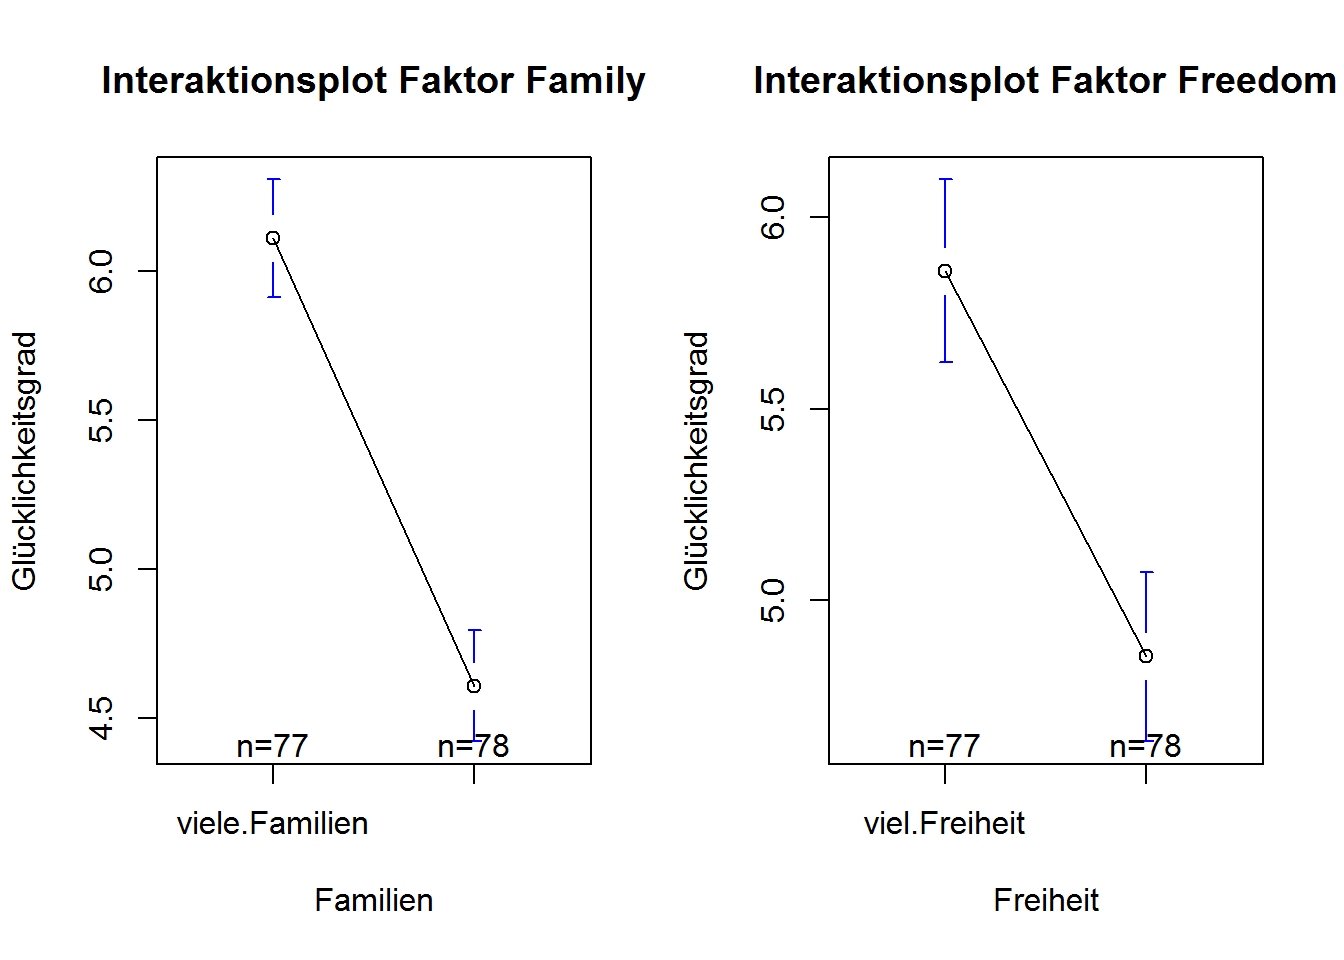
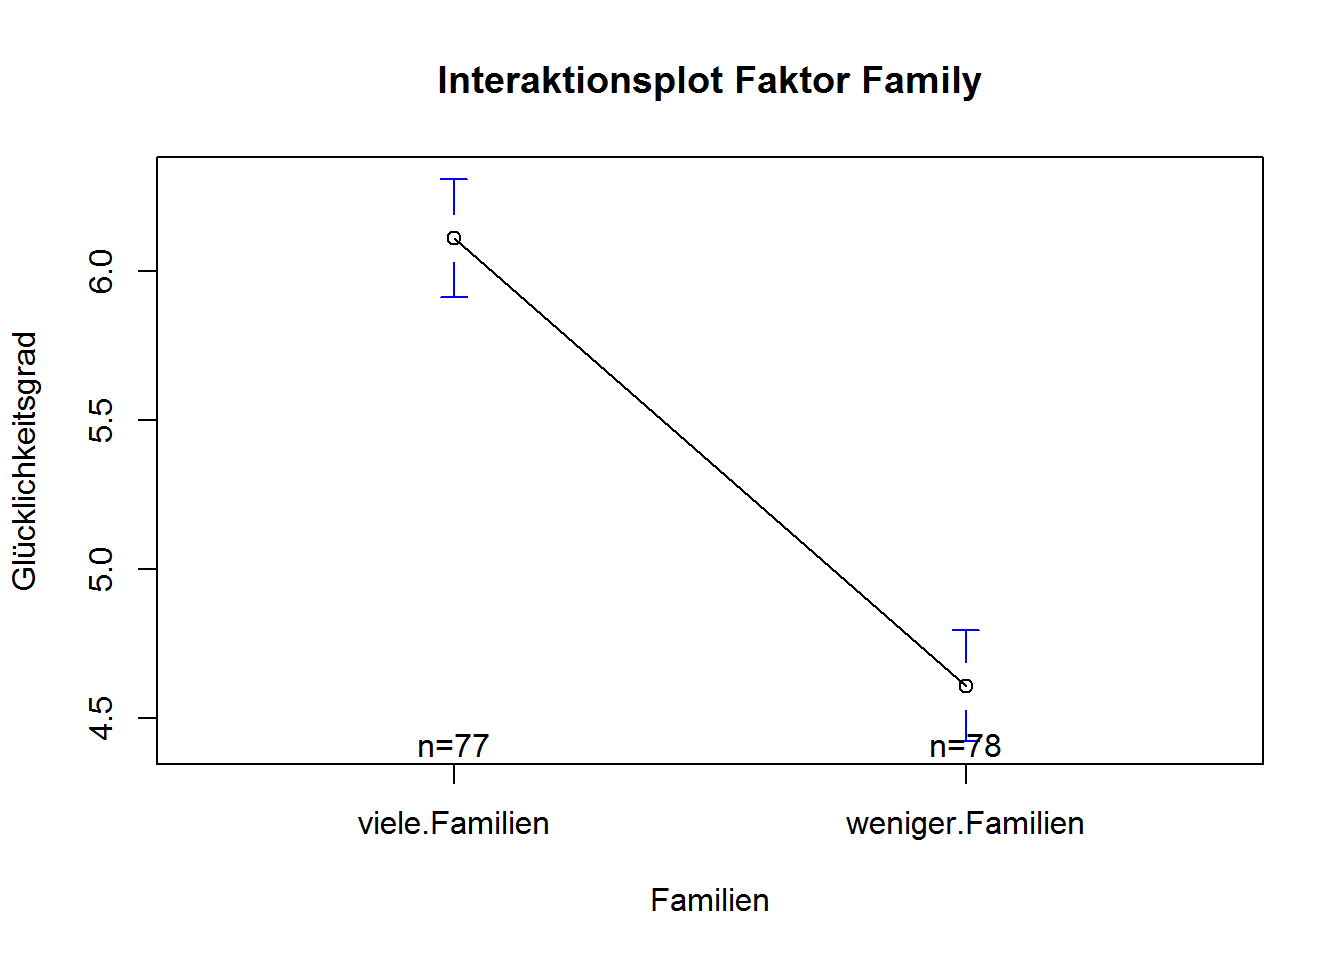
p13

diff --git a/public/2018/09/18/manova/index.html b/public/2018/09/18/manova/index.html
@@ -232,12 +232,12 @@ desc.Hauptfaktor1</code></pre>
 <p>Die Bedeutung der einzelnen Spalten wurde bereits im Post <a href="https://michael-fuchs.netlify.com/2018/09/13/anova/">“ANOVA”</a> (unter Punkt 4) genau erklärt. Wir erhalten ein höchst signifikantes Ergebnis für den Haupteffekt des Faktors <code>Family.new</code> (p &lt; .001) und ein hoch signifikants Ergebnis für den Haupteffekt des Faktors <code>Freedom.new</code> (p = .002). Das Ergebnis für den Interaktionseffekt ist mit p = .23 nicht signifikant.</p>
 <p>Die Spalte “Residuals” beinhaltet die Quadratsummen und Freiheitsgrade für den Nenner, beziehungsweise die Unterschiede innerhalb der Gruppen.</p>
 <p><strong>Interaktionsdiagramm</strong></p>
-<pre class="r"><code>par(mfrow=c(1,2))
-plotmeans(Happiness$Happiness.Score ~ Happiness$Family.new, xlab=&quot;Familien&quot;,
-          ylab=&quot;Glücklichkeitsgrad&quot;, main=&quot;Interaktionsplot Faktor Family&quot;)
-plotmeans(Happiness$Happiness.Score ~ Happiness$Freedom.new, xlab=&quot;Freiheit&quot;,
-          ylab=&quot;Glücklichkeitsgrad&quot;, main=&quot;Interaktionsplot Faktor Freedom&quot;)</code></pre>
+<pre class="r"><code>plotmeans(Happiness$Happiness.Score ~ Happiness$Family.new, xlab=&quot;Familien&quot;,
+          ylab=&quot;Glücklichkeitsgrad&quot;, main=&quot;Interaktionsplot Faktor Family&quot;)</code></pre>
 <p><img src="/post/2018-09-18-manova_files/figure-html/unnamed-chunk-13-1.png" width="672" /></p>
+<pre class="r"><code>plotmeans(Happiness$Happiness.Score ~ Happiness$Freedom.new, xlab=&quot;Freiheit&quot;,
+          ylab=&quot;Glücklichkeitsgrad&quot;, main=&quot;Interaktionsplot Faktor Freedom&quot;)</code></pre>
+<p><img src="/post/2018-09-18-manova_files/figure-html/unnamed-chunk-13-2.png" width="672" /></p>
 </div>
 
     </div>

diff --git a/content/post/2018-09-18-manova.html b/content/post/2018-09-18-manova.html
@@ -174,10 +174,10 @@ desc.Hauptfaktor1</code></pre>
 <p>Die Bedeutung der einzelnen Spalten wurde bereits im Post <a href="https://michael-fuchs.netlify.com/2018/09/13/anova/">“ANOVA”</a> (unter Punkt 4) genau erklärt. Wir erhalten ein höchst signifikantes Ergebnis für den Haupteffekt des Faktors <code>Family.new</code> (p &lt; .001) und ein hoch signifikants Ergebnis für den Haupteffekt des Faktors <code>Freedom.new</code> (p = .002). Das Ergebnis für den Interaktionseffekt ist mit p = .23 nicht signifikant.</p>
 <p>Die Spalte “Residuals” beinhaltet die Quadratsummen und Freiheitsgrade für den Nenner, beziehungsweise die Unterschiede innerhalb der Gruppen.</p>
 <p><strong>Interaktionsdiagramm</strong></p>
-<pre class="r"><code>par(mfrow=c(1,2))
-plotmeans(Happiness$Happiness.Score ~ Happiness$Family.new, xlab=&quot;Familien&quot;,
-          ylab=&quot;Glücklichkeitsgrad&quot;, main=&quot;Interaktionsplot Faktor Family&quot;)
-plotmeans(Happiness$Happiness.Score ~ Happiness$Freedom.new, xlab=&quot;Freiheit&quot;,
-          ylab=&quot;Glücklichkeitsgrad&quot;, main=&quot;Interaktionsplot Faktor Freedom&quot;)</code></pre>
+<pre class="r"><code>plotmeans(Happiness$Happiness.Score ~ Happiness$Family.new, xlab=&quot;Familien&quot;,
+          ylab=&quot;Glücklichkeitsgrad&quot;, main=&quot;Interaktionsplot Faktor Family&quot;)</code></pre>
 <p><img src="/post/2018-09-18-manova_files/figure-html/unnamed-chunk-13-1.png" width="672" /></p>
+<pre class="r"><code>plotmeans(Happiness$Happiness.Score ~ Happiness$Freedom.new, xlab=&quot;Freiheit&quot;,
+          ylab=&quot;Glücklichkeitsgrad&quot;, main=&quot;Interaktionsplot Faktor Freedom&quot;)</code></pre>
+<p><img src="/post/2018-09-18-manova_files/figure-html/unnamed-chunk-13-2.png" width="672" /></p>
 </div>
